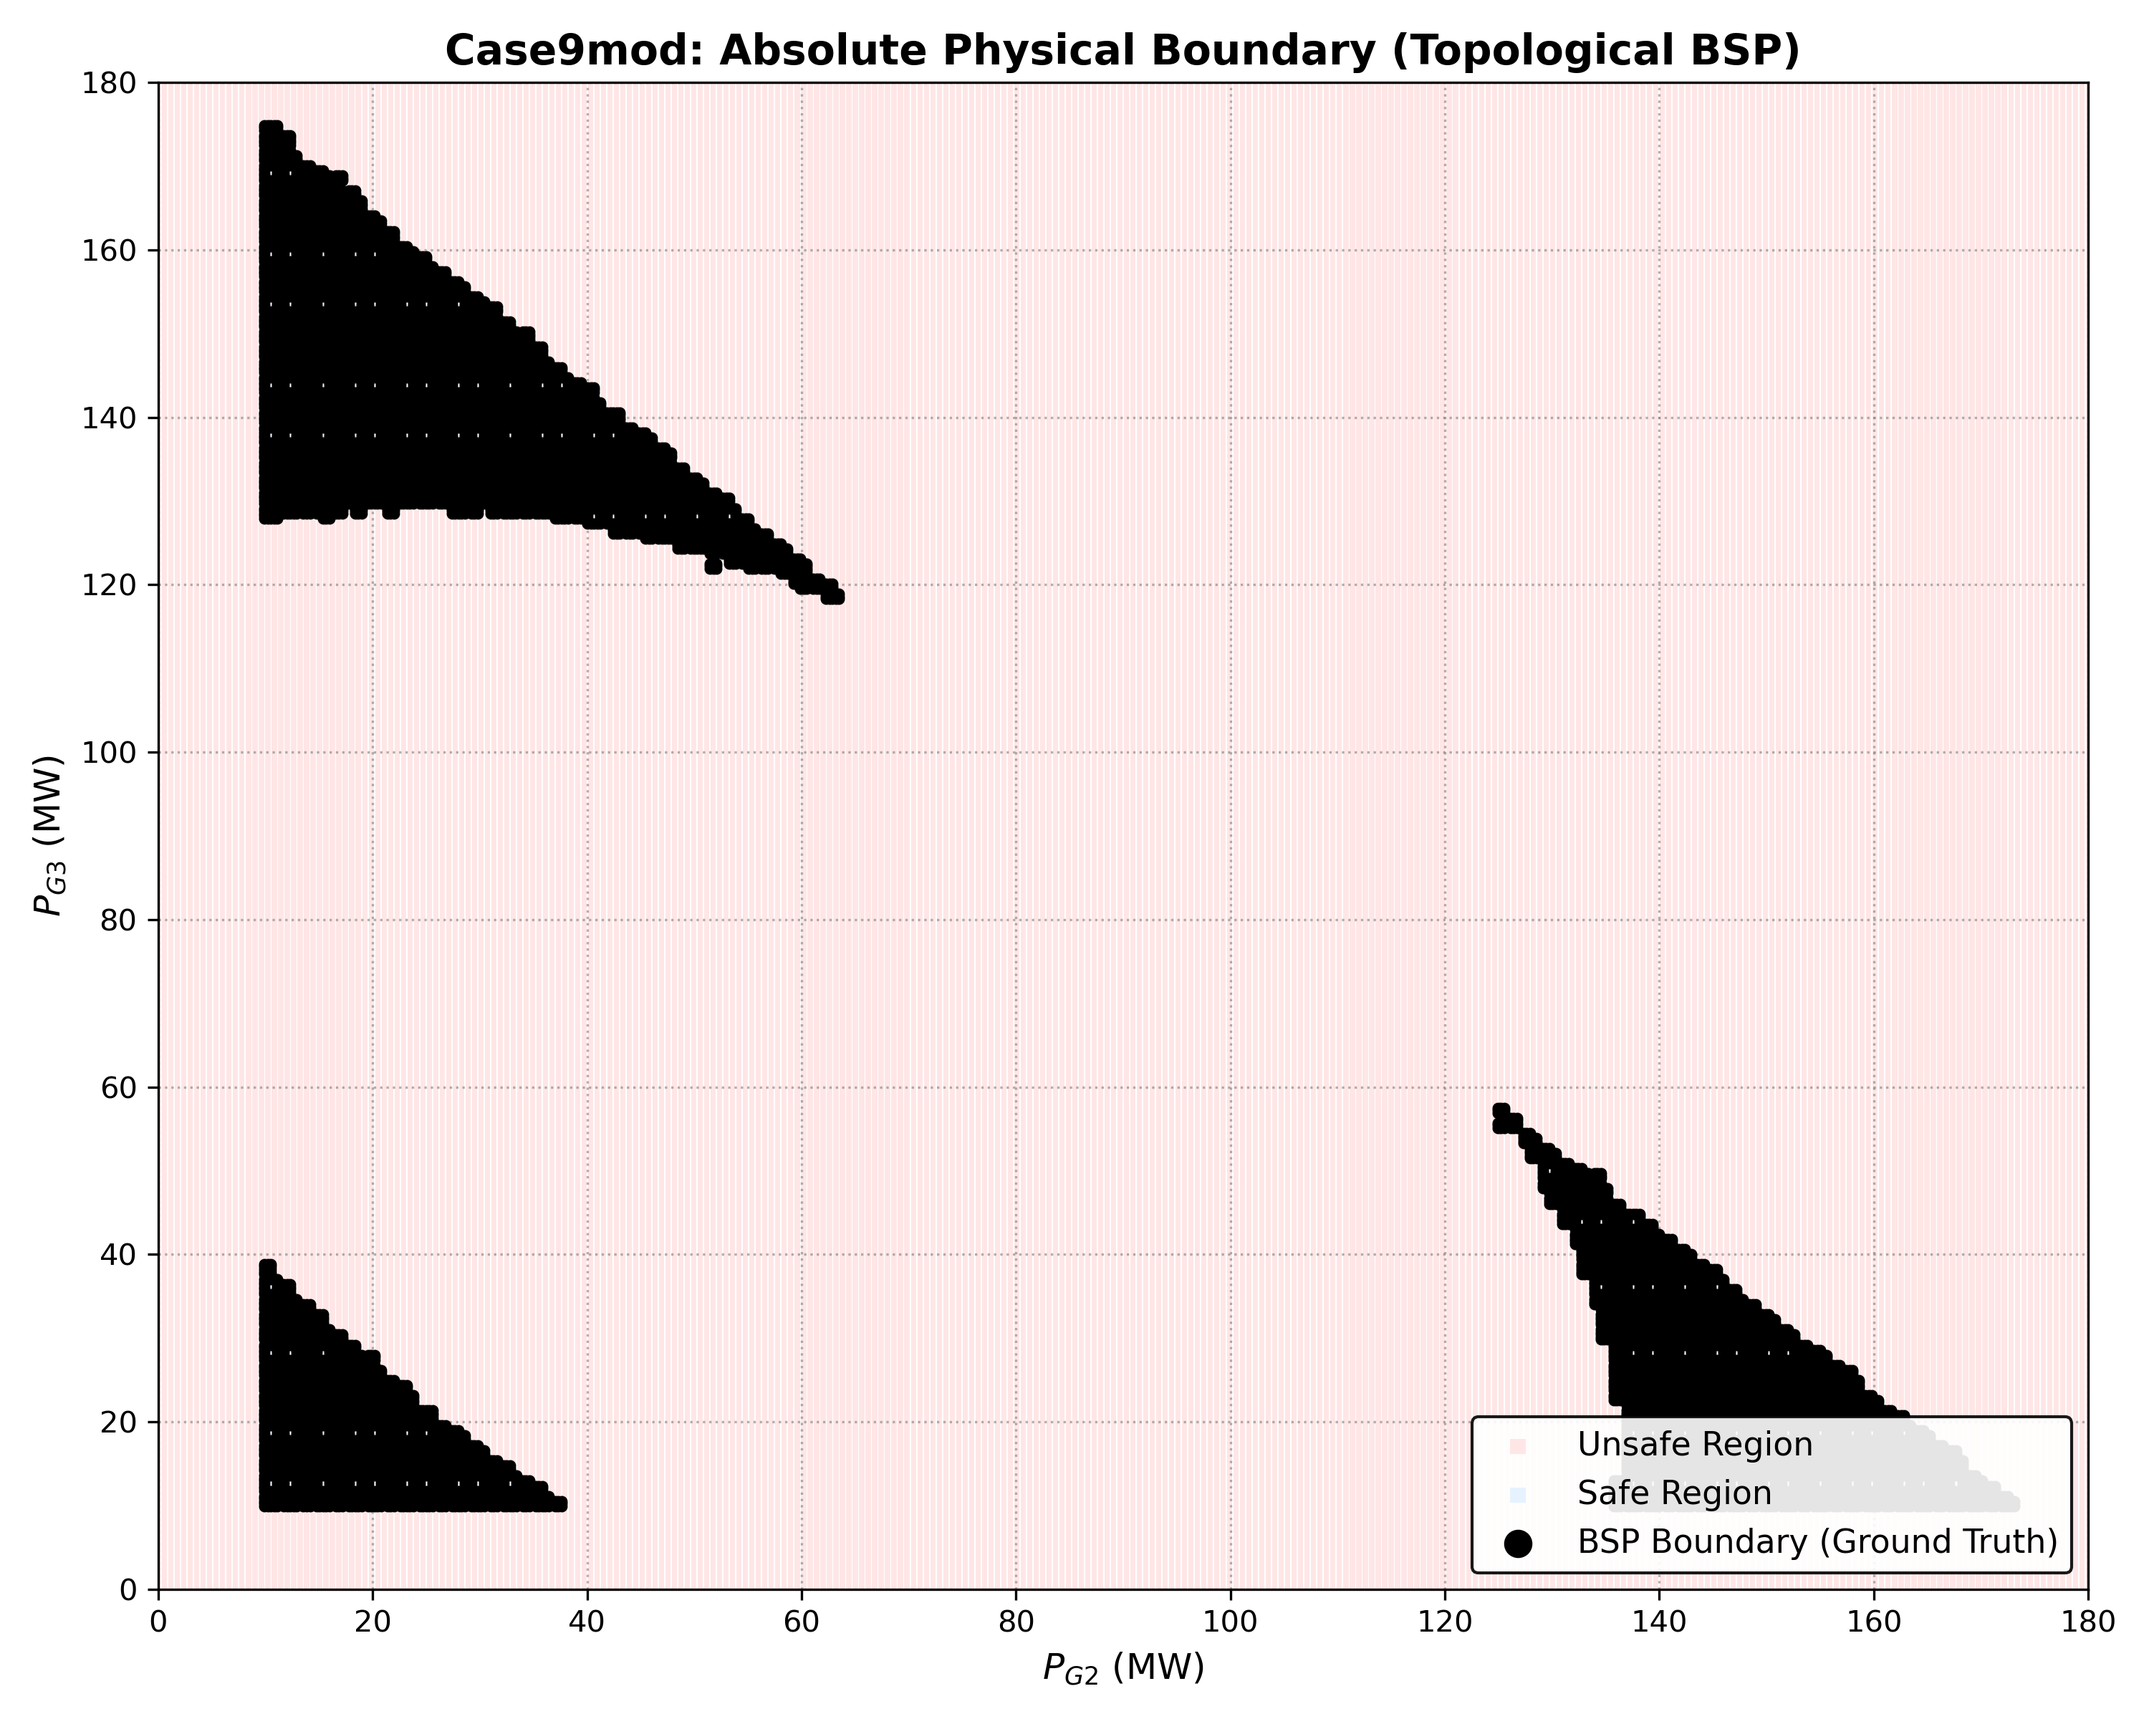
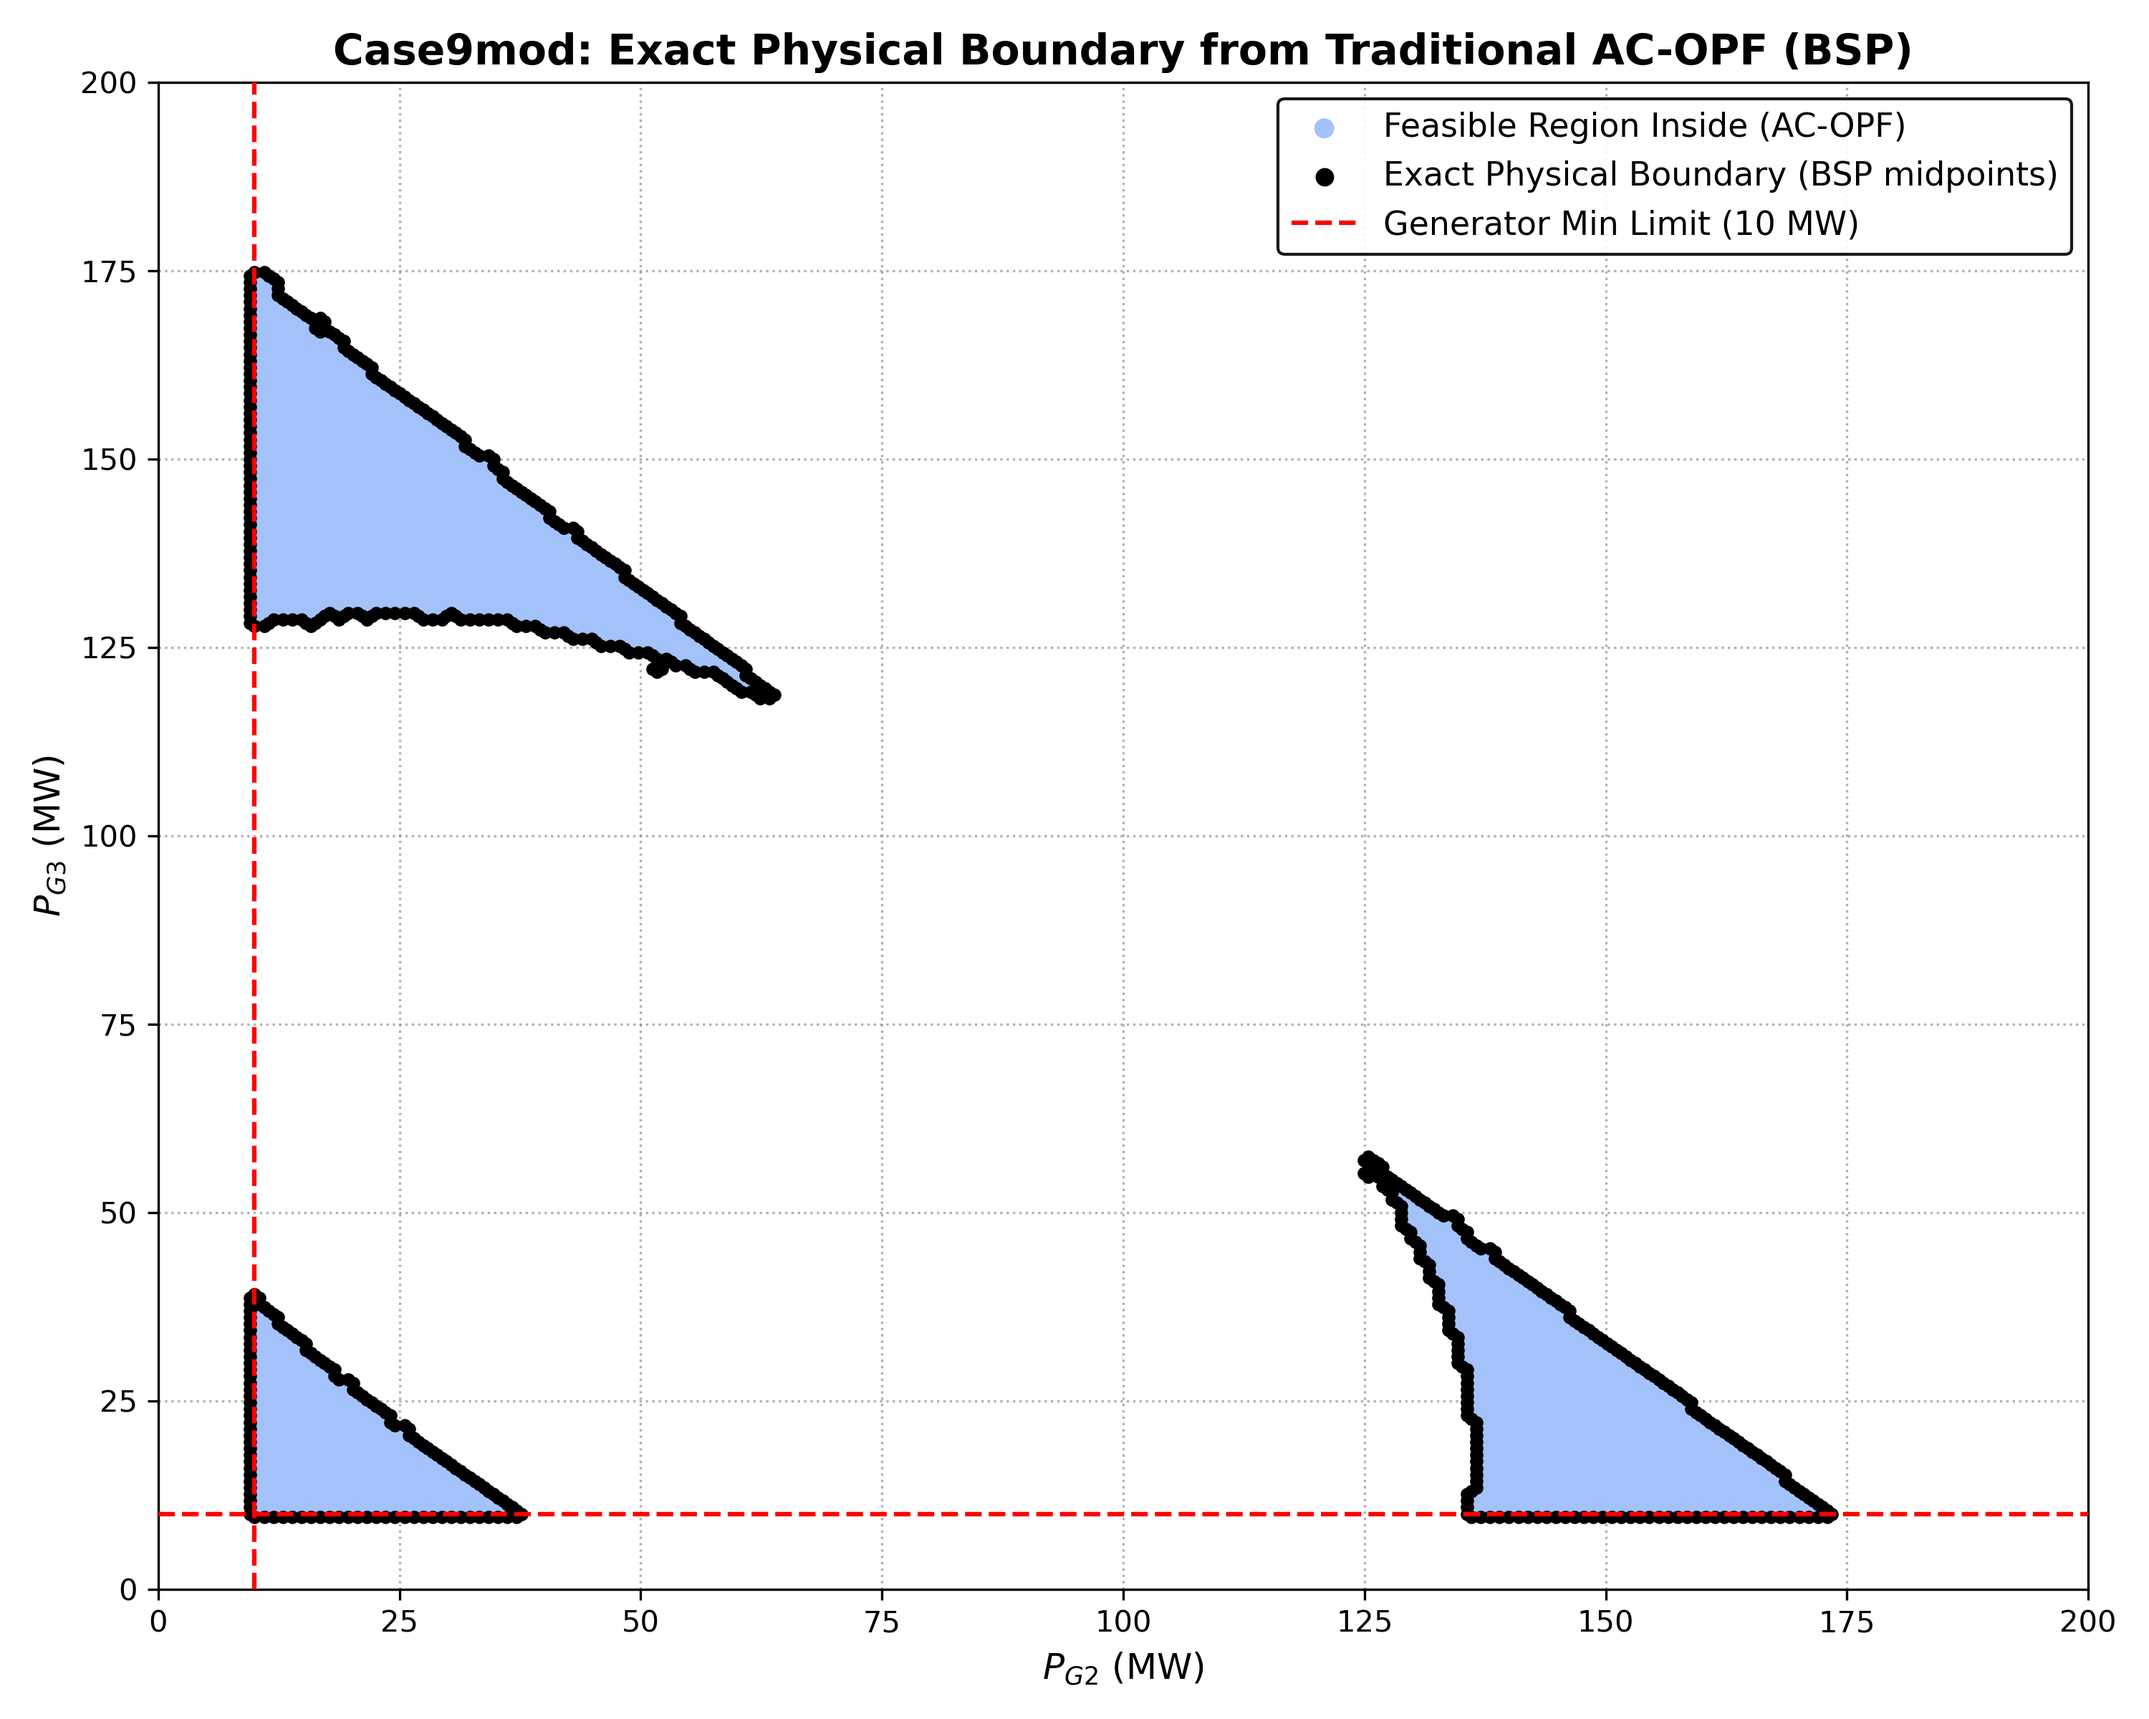
fix: extract true physical BSP boundary directly from ac_opf_9results.csv to avoid grid aliasing

diff --git a/experiments/extract_case9_bsp_ground_truth.py b/experiments/extract_case9_bsp_ground_truth.py
@@ -3,100 +3,98 @@ from pathlib import Path
 import numpy as np
 import pandas as pd
 import matplotlib.pyplot as plt
-from scipy.spatial import cKDTree
 
 ROOT = Path(r"D:\安全域\PowerSSR-DL")
 
-def extract_bsp_midpoints(X_safe, X_unsafe, d_threshold):
-    """
-    使用 KDTree 提取边界样本对 (BSP) 的中点
-    """
-    print(f"Building KDTree for {len(X_unsafe)} unsafe points...")
-    tree_unsafe = cKDTree(X_unsafe)
-    
-    print(f"Querying {len(X_safe)} safe points within radius {d_threshold} MW...")
-    # query_ball_point 返回每个 safe 点在半径 d_threshold 内的所有 unsafe 点的索引
-    neighbors_list = tree_unsafe.query_ball_point(X_safe, r=d_threshold)
-    
-    midpoints = []
-    
-    for i, neighbors in enumerate(neighbors_list):
-        p_safe = X_safe[i]
-        for idx in neighbors:
-            p_unsafe = X_unsafe[idx]
-            midpoint = (p_safe + p_unsafe) / 2.0
-            midpoints.append(midpoint)
-            
-    # 去重：由于网格的对称性，可能会有重复的或极度接近的中点
-    midpoints_arr = np.array(midpoints)
-    if len(midpoints_arr) > 0:
-        # 保留小数点后3位进行去重，对应 1kW 的精度
-        unique_midpoints = np.unique(np.round(midpoints_arr, 3), axis=0)
-    else:
-        unique_midpoints = midpoints_arr
-        
-    return unique_midpoints
-
 def main():
-    # 1. 加载网格数据
-    x_path = ROOT / "data" / "case9mod_X_grid.npy"
-    y_path = ROOT / "data" / "case9mod_y_grid.npy"
+    # 1. 从最原始的传统数据中加载安全点
+    csv_path = Path(r"D:\安全域\1\ac_opf_9results.csv")
+    print(f"Loading true physical data from {csv_path}...")
+    df = pd.read_csv(csv_path)
     
-    print("Loading data...")
-    X = np.load(x_path)
-    y = np.load(y_path).flatten()
+    # 提取有效的坐标 (P_G2, P_G3)
+    p2 = df['p2_mw'].to_numpy()
+    p3 = df['p3_mw'].to_numpy()
+    safe_points = np.column_stack((p2, p3))
     
-    safe_mask = (y == 1)
-    unsafe_mask = (y == 0)
+    # 2. 计算网格的真实物理步长
+    # 原始扫描配置为 p2: 10~300 (300 steps), p3: 10~270 (300 steps)
+    dp2 = (300.0 - 10.0) / 299.0
+    dp3 = (270.0 - 10.0) / 299.0
+    print(f"Original physical grid step: dp2 = {dp2:.4f} MW, dp3 = {dp3:.4f} MW")
     
-    X_safe = X[safe_mask]
-    X_unsafe = X[unsafe_mask]
+    # 将安全点放入一个以整数索引的集合中
+    safe_idx_set = set()
+    for i in range(len(p2)):
+        idx_2 = int(round((p2[i] - 10.0) / dp2))
+        idx_3 = int(round((p3[i] - 10.0) / dp3))
+        safe_idx_set.add((idx_2, idx_3))
+        
+    print(f"Total safe points mapped to grid: {len(safe_idx_set)}")
     
-    # 2. 设定物理距离阈值 d
-    d_threshold = 0.9 
+    # 3. 提取真实的物理边界 (BSP中点)
+    bsp_midpoints = []
     
-    print(f"Extracting BSPs with distance threshold: {d_threshold} MW")
-    bsp_midpoints = list(extract_bsp_midpoints(X_safe, X_unsafe, d_threshold))
-    print(f"Extracted {len(bsp_midpoints)} unique boundary points.")
+    # 四个正交方向的邻居
+    directions = [(1, 0), (-1, 0), (0, 1), (0, -1)]
     
-    # 3. 保存绝对的物理边界真值
+    for (i, j) in safe_idx_set:
+        # 还原当前安全点的真实坐标
+        curr_p2 = 10.0 + i * dp2
+        curr_p3 = 10.0 + j * dp3
+        
+        for di, dj in directions:
+            ni, nj = i + di, j + dj
+            
+            # 只要邻居不在安全集合中，它就是一个"不安全点" (构成了BSP边界)
+            if (ni, nj) not in safe_idx_set:
+                neighbor_p2 = 10.0 + ni * dp2
+                neighbor_p3 = 10.0 + nj * dp3
+                
+                # 构成 BSP，计算中点
+                midpoint_p2 = (curr_p2 + neighbor_p2) / 2.0
+                midpoint_p3 = (curr_p3 + neighbor_p3) / 2.0
+                bsp_midpoints.append([midpoint_p2, midpoint_p3])
+                    
+    bsp_np = np.array(bsp_midpoints)
+    print(f"Extracted {len(bsp_np)} absolute physical boundary points (BSP midpoints).")
+    
+    # 4. 保存真值数据
     results_dir = ROOT / "results"
-    results_dir.mkdir(exist_ok=True)
     out_csv = results_dir / "case9mod_bsp_ground_truth.csv"
+    df_out = pd.DataFrame(bsp_np, columns=["P_G2_MW", "P_G3_MW"])
+    df_out.to_csv(out_csv, index=False)
+    print(f"Saved exact ground truth to {out_csv}")
     
-    df = pd.DataFrame(bsp_midpoints, columns=["P_G2_MW", "P_G3_MW"])
-    df.to_csv(out_csv, index=False)
-    print(f"Saved ground truth boundary to {out_csv}")
-    
-    # 4. 可视化验证 (全新高对比度版本)
+    # 5. 高清可视化 (纯净的 AC-OPF 物理边界)
     figures_dir = ROOT / "figures"
-    figures_dir.mkdir(exist_ok=True)
     out_fig = figures_dir / "case9mod_bsp_ground_truth.png"
     
     plt.figure(figsize=(10, 8), dpi=300)
     
-    # 画出背景色块 (安全=极淡蓝, 不安全=极淡红)，不采用下采样，全部绘制，用方块标记填满
-    plt.scatter(X_unsafe[:, 0], X_unsafe[:, 1], c='#ffe6e6', s=3, marker='s', edgecolors='none', label='Unsafe Region', zorder=1)
-    plt.scatter(X_safe[:, 0], X_safe[:, 1], c='#e6f2ff', s=3, marker='s', edgecolors='none', label='Safe Region', zorder=2)
+    # 内部的安全点 (浅蓝色)
+    plt.scatter(safe_points[:, 0], safe_points[:, 1], c='#a3c2fa', s=20, label='Feasible Region Inside (AC-OPF)', edgecolors='none', zorder=2)
     
-    # 物理边界（BSP中点）画为纯黑色的线形点列，层级最高
-    bsp_np = np.array(bsp_midpoints)
-    plt.scatter(bsp_np[:, 0], bsp_np[:, 1], c='black', s=8, alpha=1.0, label='BSP Boundary (Ground Truth)', zorder=5)
+    # 边界的 BSP中点 (黑色轮廓)
+    plt.scatter(bsp_np[:, 0], bsp_np[:, 1], c='black', s=12, alpha=1.0, label='Exact Physical Boundary (BSP midpoints)', zorder=5)
     
-    plt.title('Case9mod: Absolute Physical Boundary (Topological BSP)', fontsize=14, fontweight='bold')
+    plt.title('Case9mod: Exact Physical Boundary from Traditional AC-OPF (BSP)', fontsize=14, fontweight='bold')
     plt.xlabel('$P_{G2}$ (MW)', fontsize=12)
     plt.ylabel('$P_{G3}$ (MW)', fontsize=12)
     
-    # 调整图例
-    plt.legend(loc='lower right', fontsize=11, markerscale=3, framealpha=0.9, edgecolor='black')
+    # 标注出明确的物理红线 (发电量下限 10 MW)
+    plt.axvline(x=10, color='red', linestyle='--', linewidth=1.5, zorder=6, label='Generator Min Limit (10 MW)')
+    plt.axhline(y=10, color='red', linestyle='--', linewidth=1.5, zorder=6)
     
-    plt.xlim(0, 180)
-    plt.ylim(0, 180)
-    plt.grid(True, linestyle=':', alpha=0.6, color='gray')
+    plt.xlim(0, 200)  # 只框定有数据的部分
+    plt.ylim(0, 200)
+    plt.grid(True, linestyle=':', alpha=0.6, color='gray', zorder=1)
+    
+    plt.legend(loc='upper right', fontsize=11, markerscale=1.5, framealpha=0.9, edgecolor='black')
     
     plt.tight_layout()
     plt.savefig(out_fig)
-    print(f"Saved high-contrast visualization to {out_fig}")
+    print(f"Saved precise visualization to {out_fig}")
 
 if __name__ == "__main__":
     main()
